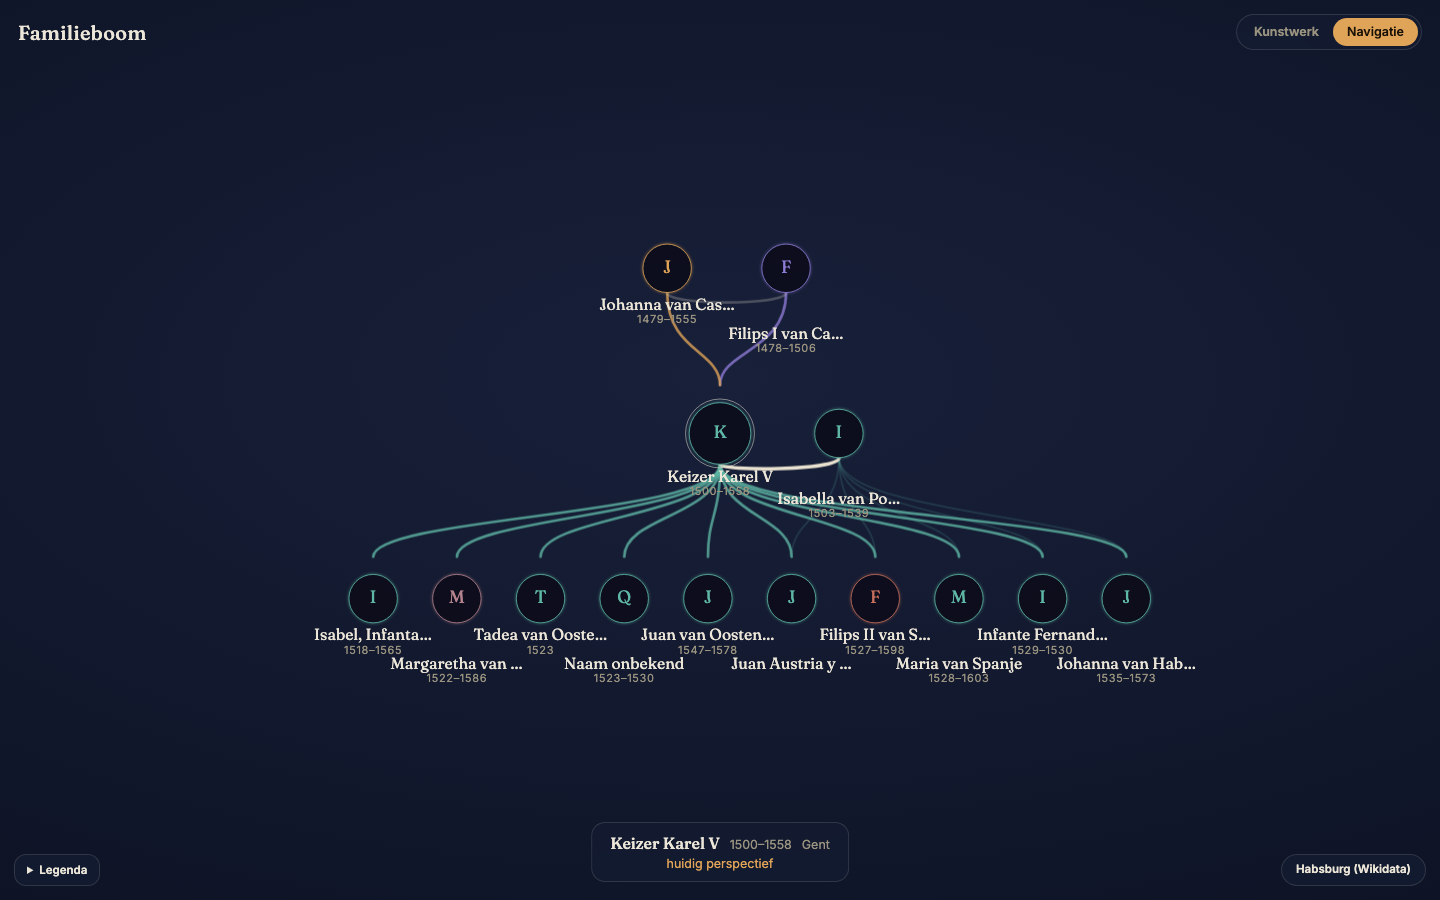
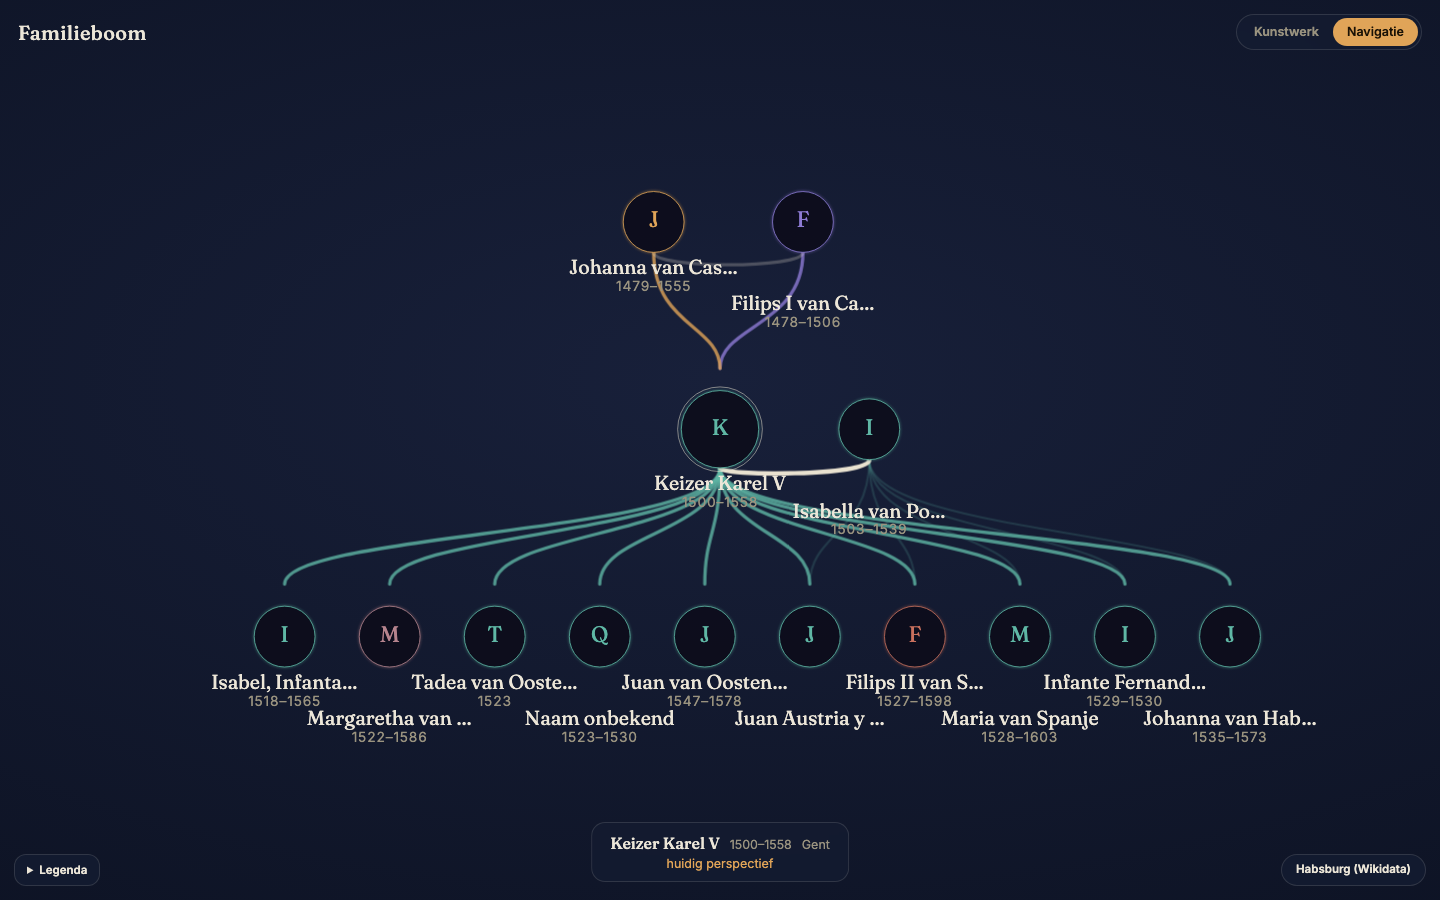
Mobiele validatie: camera-gedrag en aanraakbaarheid
- Kunstwerk: tik verandert de camera niet meer; navigatie behoudt het
  zoomniveau en hercentreert vloeiend (d3-transition) bij hernavigeren
- Tikvlakken minimaal ~22 schermpixels (schermschaal via ResizeObserver),
  navigatie-schaal geklemd op leesbare nodegrootte in schermpixels
- clickDistance(12): d3-zoom onderdrukte tikken op touch-devices
- Focusring met minimum-schermmaat, zichtbaar op kleine kunstwerk-nodes
- Gevalideerd op device (demo + Habsburg); gap-analyse bijgewerkt

Changed region(s): [[0.1562, 0.2178, 0.9062, 0.84], [0.8125, 0.6222, 0.8438, 0.6533], [0.1875, 0.6222, 0.2188, 0.6533]]

diff --git a/familieboom/src/ui/FamilyCanvas.tsx b/familieboom/src/ui/FamilyCanvas.tsx
@@ -1,6 +1,7 @@
 import { useEffect, useMemo, useRef, useState } from 'react';
 import { motion, useReducedMotion } from 'framer-motion';
 import { select } from 'd3-selection';
+import 'd3-transition';
 import { zoom, zoomIdentity, type ZoomBehavior, type ZoomTransform } from 'd3-zoom';
 import type { FamilyGraph, Person, PersonID } from '../data/types';
 import { flowLayout } from '../layout/flowLayout';
@@ -20,7 +21,6 @@ interface Props {
 }
 
 const LABEL_ZOOM = 1.5;
-const NAV_BASE = 940; // referentiemaat van de oude navigatie-camera
 const CURRENT_YEAR = 2026;
 
 const spring = { type: 'spring', stiffness: 110, damping: 20 } as const;
@@ -47,13 +47,35 @@ export function FamilyCanvas({ mode, fullGraph, egoGraph, focusId, branches, onF
   const art = useMemo(() => flowLayout(fullGraph), [fullGraph]);
   const [minX, minY, width, height] = art.bounds;
 
+  // Werkelijke schermmaat: de navigatie-schaal en tikvlakken denken in
+  // schermpixels, anders worden nodes op een telefoon onraakbaar klein.
+  const svgRef = useRef<SVGSVGElement>(null);
+  const [clientSize, setClientSize] = useState({ cw: 1200, ch: 800 });
+  useEffect(() => {
+    const svg = svgRef.current;
+    if (!svg) return;
+    const observer = new ResizeObserver(([entry]) => {
+      const { width: cw, height: ch } = entry.contentRect;
+      if (cw > 0 && ch > 0) setClientSize({ cw, ch });
+    });
+    observer.observe(svg);
+    return () => observer.disconnect();
+  }, []);
+  // Schermpixels per user-unit bij zoomniveau 1 ("meet": kleinste ratio wint).
+  const screenScale = Math.min(clientSize.cw / width, clientSize.ch / height) || 1;
+
   // Navigatie-layout, geprojecteerd in de canvas-ruimte van het kunstwerk.
   const nav = useMemo(() => {
     if (!egoGraph) return undefined;
     const raw = egoLayout(egoGraph, focusId, branches);
     const [nx, ny, nw, nh] = raw.bounds;
-    const unit = Math.min(width, height) / NAV_BASE;
-    const k = Math.min(Math.max(Math.min(width / nw, height / nh) * 0.92, 0.58 * unit), 1.15 * unit);
+    // Fit binnen het zichtbare vlak (incl. letterbox-ruimte), geklemd op een
+    // leesbare nodegrootte in schérmpixels (r ≈ 13–30 px); wat niet past is
+    // bereikbaar via pannen.
+    const visW = clientSize.cw / screenScale;
+    const visH = clientSize.ch / screenScale;
+    const kFit = Math.min(visW / nw, visH / nh) * 0.9;
+    const k = Math.min(Math.max(kFit, 13 / (22 * screenScale)), 30 / (22 * screenScale));
     const tx = minX + width / 2 - (nx + nw / 2) * k;
     const ty = minY + height / 2 - (ny + nh / 2) * k;
     return {
@@ -65,19 +87,23 @@ export function FamilyCanvas({ mode, fullGraph, egoGraph, focusId, branches, onF
         raw.links.map((l) => [l.id, { ...l, path: affinePath(l.path, k, tx, ty) }]),
       ),
     };
-  }, [egoGraph, focusId, branches, width, height, minX, minY]);
+  }, [egoGraph, focusId, branches, width, height, minX, minY, clientSize, screenScale]);
 
   const isNav = mode === 'navigation' && nav !== undefined;
 
-  // Camera: pan/zoom in beide modi; reset bij mode- of focuswissel.
-  const svgRef = useRef<SVGSVGElement>(null);
+  // Camera: pan/zoom in beide modi.
   const behaviorRef = useRef<ZoomBehavior<SVGSVGElement, unknown>>(null);
   const [view, setView] = useState<ZoomTransform>(zoomIdentity);
+  const viewRef = useRef(view);
+  viewRef.current = view;
   useEffect(() => {
     const svg = svgRef.current;
     if (!svg) return;
     const behavior = zoom<SVGSVGElement, unknown>()
       .scaleExtent([0.5, 9])
+      // Een tik op een telefoon beweegt altijd een paar pixels; zonder
+      // ruime clickDistance onderdrukt d3-zoom dan elk click-event.
+      .clickDistance(12)
       .on('zoom', (event) => setView(event.transform));
     behaviorRef.current = behavior;
     select(svg).call(behavior);
@@ -85,11 +111,30 @@ export function FamilyCanvas({ mode, fullGraph, egoGraph, focusId, branches, onF
       select(svg).on('.zoom', null);
     };
   }, []);
+  // Bij moduswissel: vloeiend terug naar het overzicht.
   useEffect(() => {
     const svg = svgRef.current;
     const behavior = behaviorRef.current;
-    if (svg && behavior) select(svg).call(behavior.transform, zoomIdentity);
-  }, [mode, focusId]);
+    if (svg && behavior) {
+      select(svg).transition().duration(550).call(behavior.transform, zoomIdentity);
+    }
+  }, [mode]);
+  // Bij hernavigeren in de navigatie: behoud het zoomniveau van de gebruiker,
+  // glijd alleen terug naar het midden (waar de nieuwe focuspersoon landt).
+  // In het kunstwerk blijft de camera bij een tik volledig met rust.
+  const isNavRef = useRef(isNav);
+  isNavRef.current = isNav;
+  useEffect(() => {
+    const svg = svgRef.current;
+    const behavior = behaviorRef.current;
+    if (!svg || !behavior || !isNavRef.current) return;
+    const k = viewRef.current.k;
+    const cx = minX + width / 2;
+    const cy = minY + height / 2;
+    const centered = zoomIdentity.translate(cx * (1 - k), cy * (1 - k)).scale(k);
+    select(svg).transition().duration(550).call(behavior.transform, centered);
+    // eslint-disable-next-line react-hooks/exhaustive-deps
+  }, [focusId]);
 
   // Intro (alleen kunstwerk, één keer per dataset).
   const reducedMotion = useReducedMotion();
@@ -274,18 +319,25 @@ export function FamilyCanvas({ mode, fullGraph, egoGraph, focusId, branches, onF
               style={{ pointerEvents: hidden ? 'none' : undefined }}
               onClick={() => onFocus(id)}
             >
+              {/* Onzichtbaar tikvlak: minimaal ~22 schermpixels, wat zoom of canvasmaat ook is. */}
+              <circle
+                r={Math.max(active.r + 4, 22 / (screenScale * view.k))}
+                fill="transparent"
+              />
               <motion.g
                 {...(intro && !isNav
                   ? { initial: { opacity: 0 }, animate: { opacity: 1 }, transition: { delay: introDelayFor(id), duration: 0.8 } }
                   : {})}
               >
                 {isFocus && (
+                  // Focusring met een minimum in schermpixels: ook op een
+                  // minuscule kunstwerk-node is de selectie zichtbaar.
                   <motion.circle
-                    animate={{ r: active.r + 7 }}
+                    animate={{ r: Math.max(active.r + 7, 13 / (screenScale * view.k)) }}
                     transition={spring}
                     fill="none"
                     stroke="#E9E2D0"
-                    strokeWidth={1.2}
+                    strokeWidth={thin(1.2)}
                     opacity={0.85}
                   />
                 )}

diff --git a/03-gap-analyse.md b/03-gap-analyse.md
@@ -21,7 +21,7 @@
 | CRUD / accounts / sharing | Niet gebouwd (buiten scope van deze sessie). |
 | Modus-overgang | **Echte morph** (`src/ui/FamilyCanvas.tsx`): beide weergaven zijn één canvas; gedeelde nodes en relatielijnen veren tussen de twee layouts (de navigatie-layout wordt affien in de kunstwerk-ruimte geprojecteerd), view-exclusieve elementen faden. Pan/zoom werkt in beide modi en reset bij wisselen. |
 | Navigatie bij grote families | Depth-terugval (2→1) boven 34 personen, compactere rijen met gestaggerde labels, schaal-ondergrens (58%) en pan/zoom als uitlaatklep. Werkt voor de Habsburg-extremen (16 kinderen), maar uitklappen/groeperen per tak blijft het structurele antwoord. |
-| Mobiel | Mobile-first CSS + touch via d3-zoom, maar niet gevalideerd op echte iOS/Android-devices (headless Chrome emuleert geen viewport). |
+| Mobiel | **Gevalideerd op device** (2026-06-13). Daarbij gevonden en gefixt: camera bleef niet op zoomniveau bij hernavigeren (nu: kunstwerk raakt camera niet aan, navigatie behoudt zoom en hercentreert vloeiend); Habsburg was onaanraakbaar (tikvlakken nu ≥ ~22 schermpixels i.p.v. canvas-eenheden, `clickDistance(12)` tegen d3's tik-onderdrukking, focusring met minimum-schermmaat). |
 | Wikidata | Alleen biologische ouders (P22/P25); adoptie/stief zit wel in het model maar wordt niet uit Wikidata gehaald. Geen incrementele sync. |
 | NL relatie-benoeming | **Gebouwd** (`src/domain/relationNaming.ts` + 13 unit-tests): kortste-pad-BFS, classificatie met half/stief/adoptie/aangetrouwd-nuance, pad-ondertitel tegen de neef/nicht-dubbelzinnigheid, "ook: …" bij meerdere even korte paden. Getoond in de persoonskaart t.o.v. de vaste "ik" per dataset. Resterende gaten: diepe aangetrouwde paden vallen terug op een generiek label + via-keten, en de benoeming is nog niet visibility-bewust. |
 
@@ -32,7 +32,7 @@
 3. **Renderingsperformance bij groei.** SVG draagt 85 personen moeiteloos; bij 500+ wordt het op mobiel spannend. De vluchtroute is ingebouwd (layout-laag levert pure geometrie, renderer is vervangbaar door canvas), maar labels en semantische zoom moeten dan opnieuw ontworpen worden. Niet nu doen — wel de drempel bewaken.
 4. **Layoutkwaliteit bij echte, rommelige data.** De barycentrische plaatsing geeft bij hertrouw-ketens soms lange huwelijksbogen en kruisingen (zichtbaar bij de Habsburgers — deels data-eerlijk, deels layoutbeperking). Opties: lokale optimalisatie-pass, of curated pinning voor de "muurprint"-use-case.
 5. **Wereldbol-view.** Het model is er klaar voor (`Place` met lat/lon + wikidataId, `residences` als tijdreeks; Wikidata levert coördinaten al mee), maar de demo-familie heeft alleen handmatige coördinaten — geocoding van vrije-tekstplaatsen is nog een open stuk.
-6. **Praktisch**: het project staat in Google Drive; `node_modules` synct mee. Advies: map uitsluiten van Drive-sync of het project naar `~/Documents/Projects` verplaatsen (zoals je andere apps) met de docs in Drive.
+6. ~~Praktisch: Google Drive~~ — **opgelost**: project verhuisd naar `~/Documents/Projects/202606_FamilyTree` met GitHub (https://github.com/chieyong/familytree) als bron van waarheid.
 
 ## Voorgestelde volgorde volgende sessie
 
